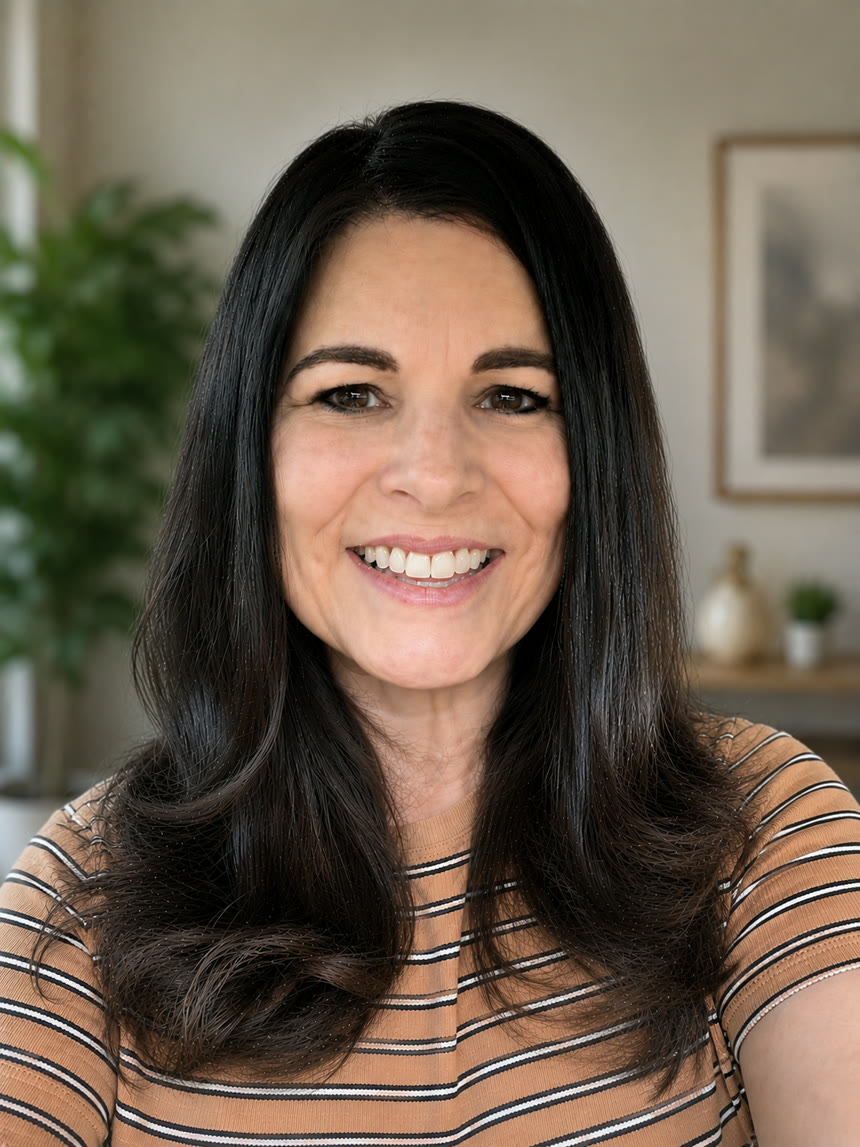
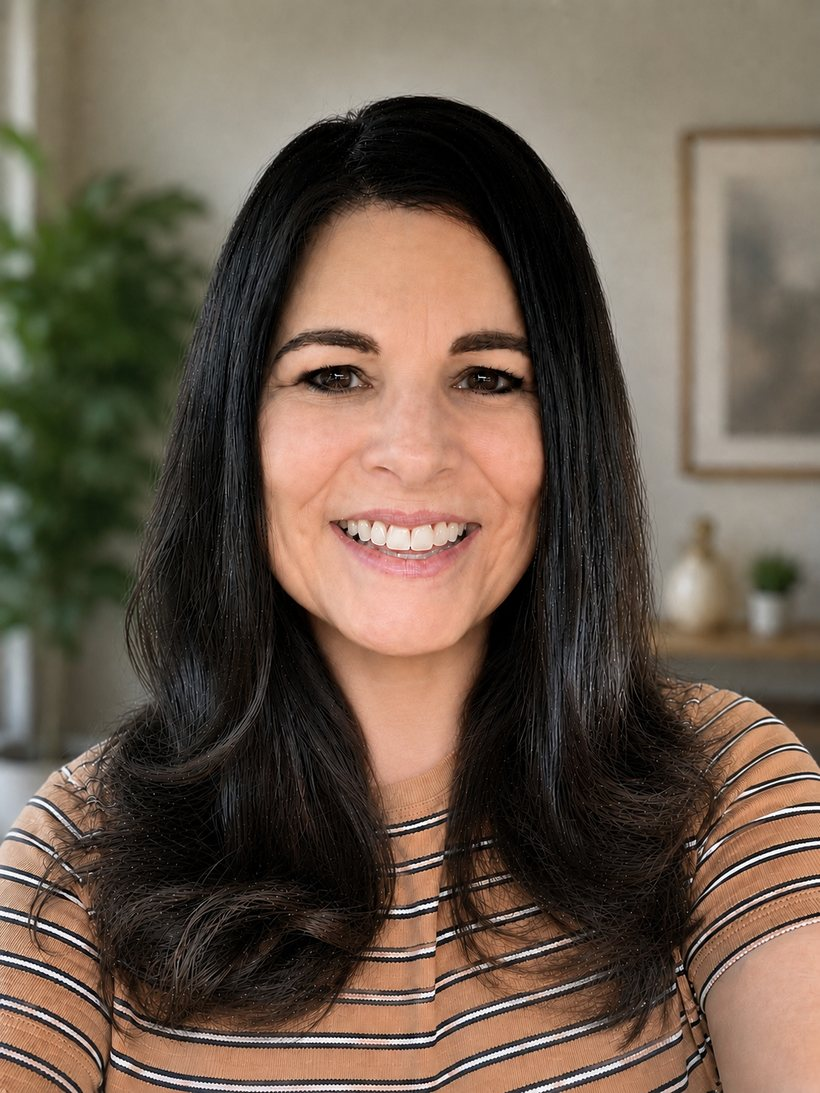
Bigger/bolder brand name; new Laura photo (smaller card); fee $150->$155

diff --git a/styles.css b/styles.css
@@ -122,15 +122,15 @@ h3{ font-family:var(--serif); font-size:1.5rem; }
 
 .brand{ text-decoration:none; display:flex; flex-direction:column; line-height:1; margin-right:auto; }
 .brand-script{
-  font-family:var(--script); color:var(--slate-deep);
-  font-size:clamp(2.15rem,3.6vw,2.85rem); line-height:.9;
+  font-family:var(--script); color:var(--slate-ink);
+  font-size:clamp(2.5rem,4.6vw,3.6rem); line-height:.9;
   transition:font-size .4s var(--ease);
 }
-.site-header.scrolled .brand-script{ font-size:clamp(1.85rem,3vw,2.35rem); }
+.site-header.scrolled .brand-script{ font-size:clamp(2.05rem,3.4vw,2.75rem); }
 .brand-sub{
-  font-family:var(--sans); font-weight:600; color:var(--slate);
-  font-size:.66rem; letter-spacing:.34em; text-transform:uppercase;
-  margin-top:.28rem;
+  font-family:var(--sans); font-weight:700; color:var(--slate-deep);
+  font-size:.74rem; letter-spacing:.3em; text-transform:uppercase;
+  margin-top:.32rem;
 }
 .brand-sub .llc{ letter-spacing:.18em; opacity:.75; }
 
@@ -370,7 +370,7 @@ h3{ font-family:var(--serif); font-size:1.5rem; }
 /* provider photo card (portrait + name badge; graceful monogram until the
    real photo is dropped at assets/laura-gonzales.jpg) */
 .provider-card{
-  position:relative; margin:0; aspect-ratio:4/5; max-width:400px;
+  position:relative; margin:0; aspect-ratio:4/5; max-width:300px;
   border-radius:26px; overflow:hidden;
   border:8px solid #fff; box-shadow:var(--shadow);
   background:linear-gradient(160deg,#dceaf0 0%,#c3d8e2 100%);
@@ -808,7 +808,7 @@ h3{ font-family:var(--serif); font-size:1.5rem; }
      the provider card's children are all absolutely positioned, so with auto
      margins the grid item would otherwise collapse to a sliver and the verse
      chip would float over the "My Approach" heading below it. */
-  .about-media{ width:min(440px,100%); margin:0 auto 1.5rem; }
+  .about-media{ width:min(300px,100%); margin:0 auto 1.5rem; }
   .provider-card{ margin-inline:auto; }
   /* keep the decorative verse chip tucked onto the card, never past its edge */
   .about-verse-chip{ top:-14px; left:8px; }

diff --git a/index.html b/index.html
@@ -36,7 +36,7 @@
   "image": "https://stillwatersla.org/assets/still-waters-brand.jpg",
   "telephone": "+1-225-803-5145",
   "email": "[email redacted]",
-  "priceRange": "$150",
+  "priceRange": "$155",
   "areaServed": {
     "@type": "State",
     "name": "Louisiana"
@@ -508,7 +508,7 @@
     </div>
 
     <div class="fee-rate reveal">
-      <p class="rate-amount">$150</p>
+      <p class="rate-amount">$155</p>
       <p class="rate-detail">per 50–60&nbsp;minute session</p>
     </div>
 